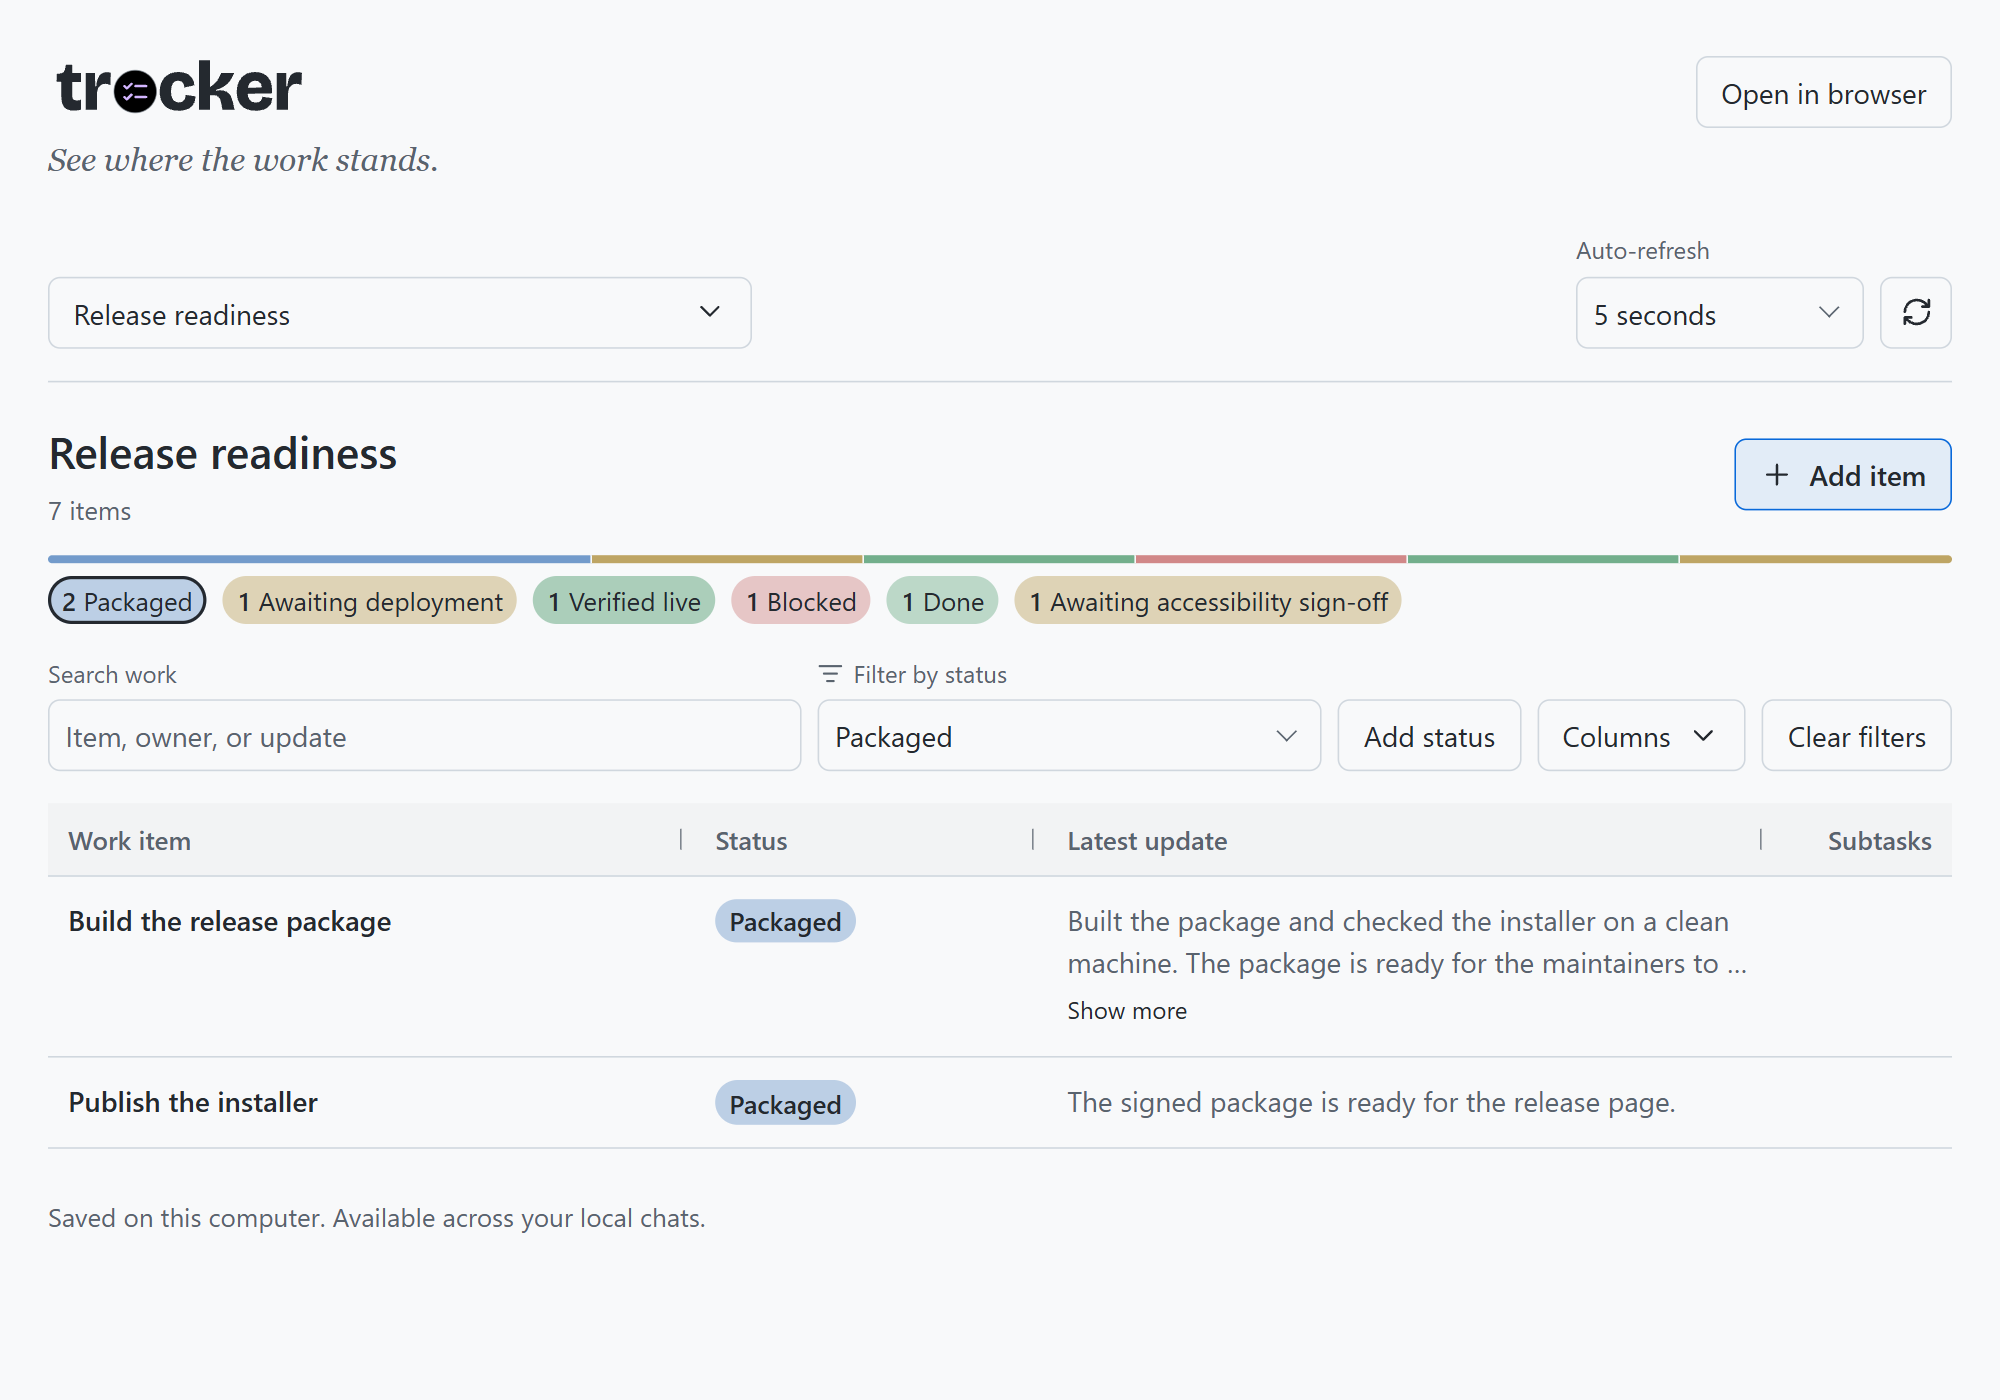
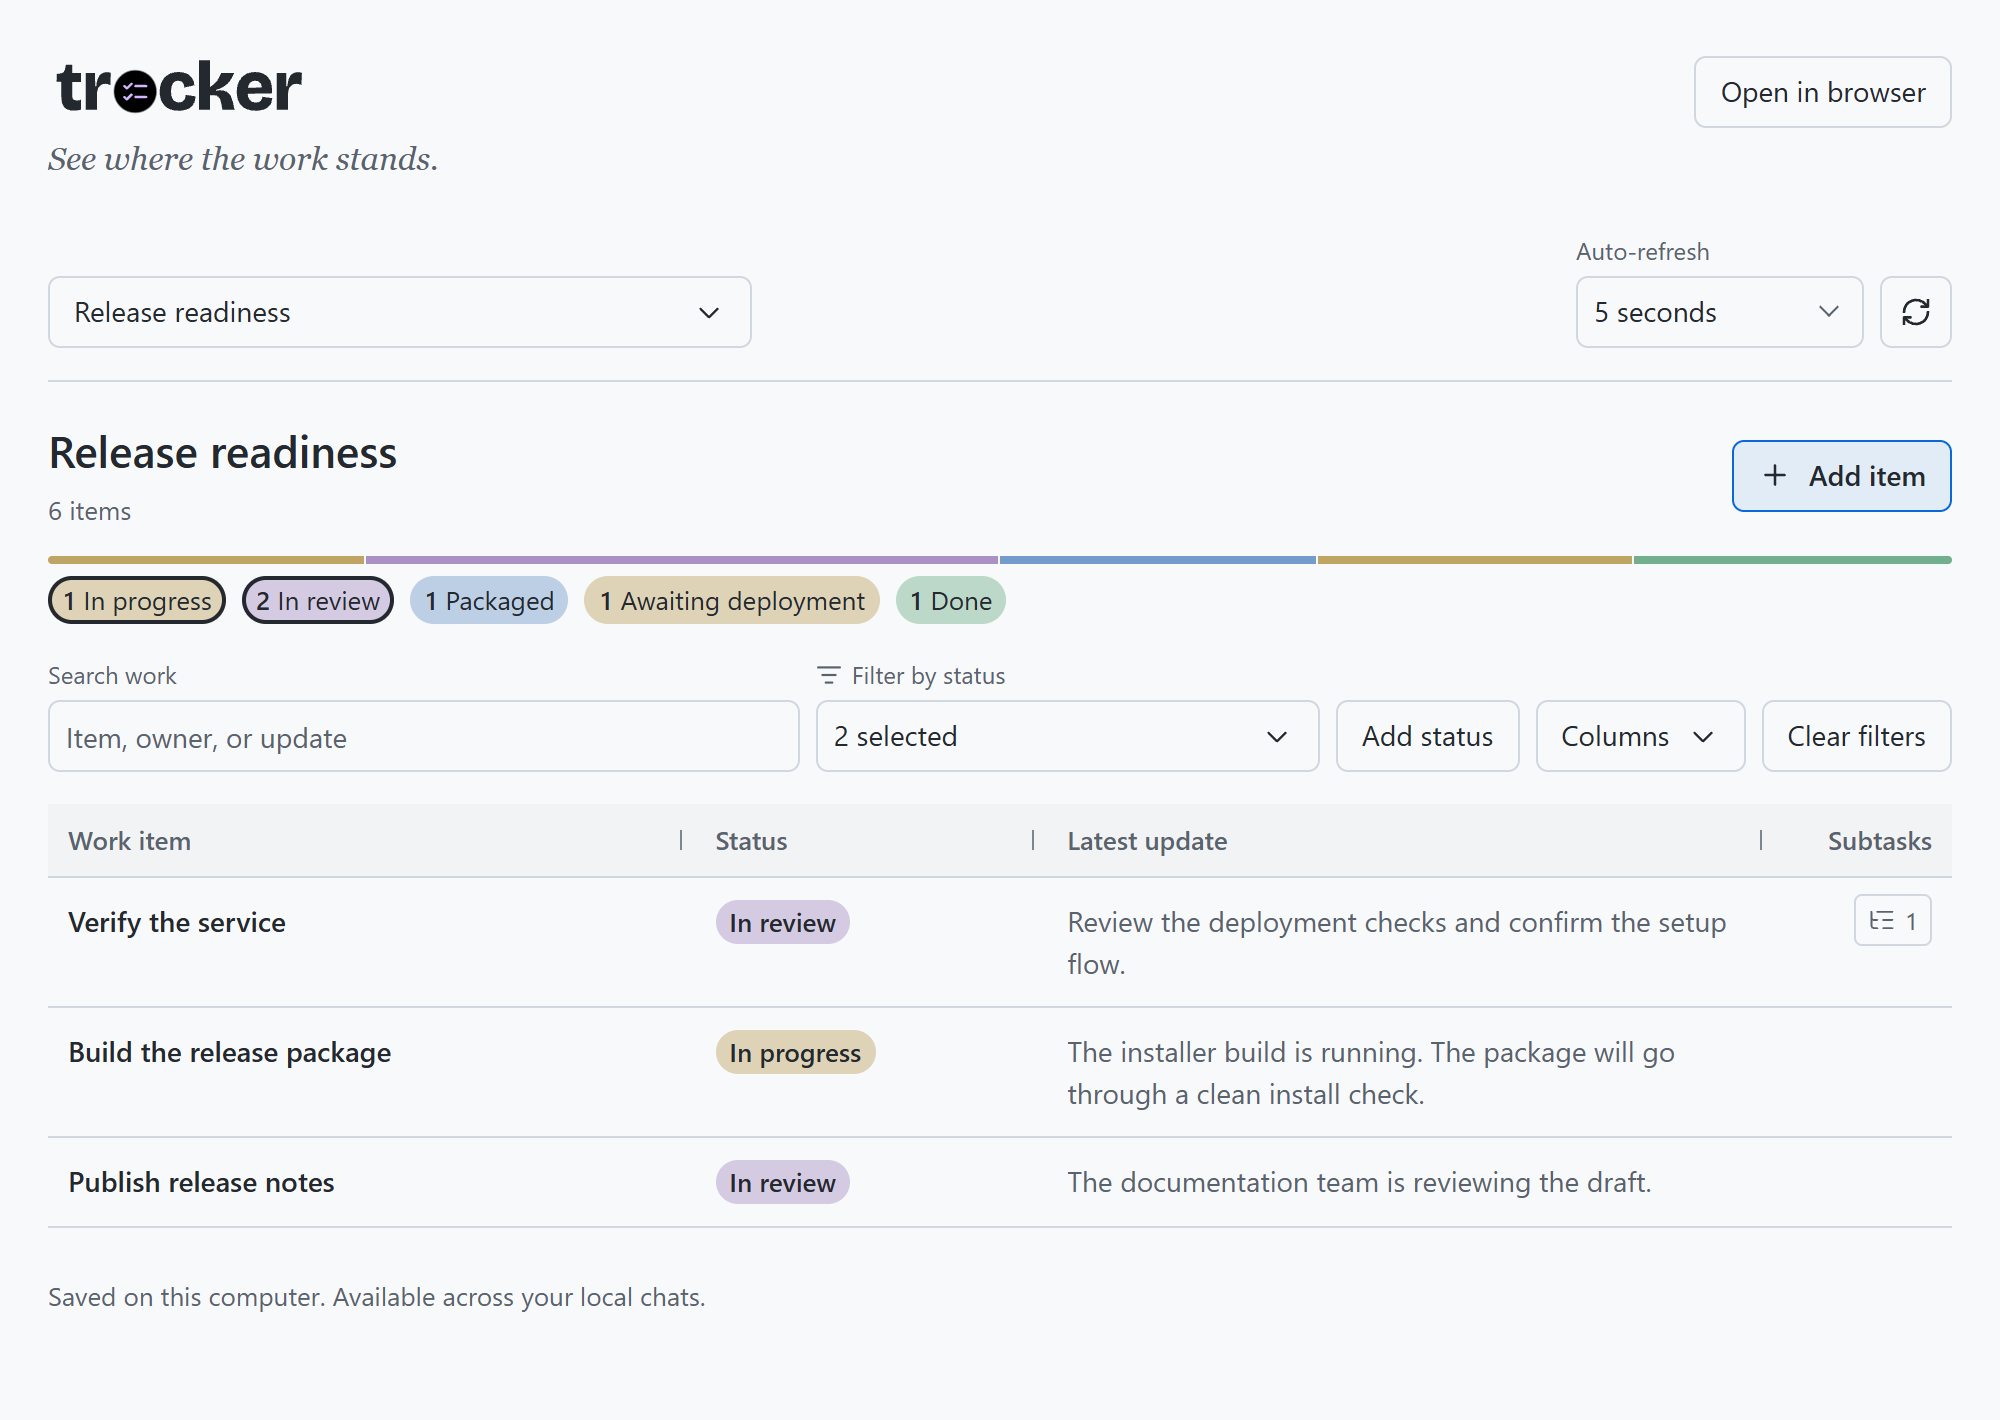
Allow multiple Tracker status filters

diff --git a/apps/tracker/app.js b/apps/tracker/app.js
@@ -12,6 +12,9 @@ const columnWidths = new Map();
 const resizeMenu = byId("resize-column-menu");
 const resetWidths = byId("reset-column-widths");
 const statusFilter = byId("status-filter");
+const statusFilterOptions = byId("status-filter-options");
+const statusFilterChoices = byId("status-filter-choices");
+const selectedStatuses = new Set();
 const statusCounts = byId("status-counts");
 const clearFiltersButton = byId("clear-filters");
 const showHidden = byId("show-hidden");
@@ -165,6 +168,7 @@ async function load({ manual = false } = {}) {
             renderBoardMenu(target);
         }
         boardMenuButton.disabled = false;
+        const previousStatuses = data?.statuses;
         data = next;
         if (!data) {
             showWelcome("No trackers yet. Choose New tracker from the Trackers menu to get started.");
@@ -176,9 +180,9 @@ async function load({ manual = false } = {}) {
             expandedParents.clear();
             expandedNotes.clear();
         }
-        const statusOptions = [["", "All statuses"], ...data.statuses.map(({ id, label }) => [id, label])];
-        if (statusOptions.length !== statusFilter.options.length || oldBoard !== target.id) {
-            setOptions(statusFilter, statusOptions, statusFilter.value);
+        if (oldBoard !== target.id || !previousStatuses || previousStatuses.length !== data.statuses.length ||
+            data.statuses.some(({ id, label }, index) => id !== previousStatuses[index].id || label !== previousStatuses[index].label)) {
+            renderStatusFilterChoices(data.statuses);
         }
         byId("board-title").textContent = data.board.name;
         showMessage(byId("board-session-name"), data.board.sessionName ? `Copilot session: ${data.board.sessionName}` : "");
@@ -201,7 +205,31 @@ async function load({ manual = false } = {}) {
 
 function clearFilters() {
     search.value = "";
-    statusFilter.value = "";
+    selectedStatuses.clear();
+}
+
+function renderStatusFilterChoices(statuses) {
+    const available = new Set(statuses.map(({ id }) => id));
+    for (const id of selectedStatuses) if (!available.has(id)) selectedStatuses.delete(id);
+    statusFilterChoices.replaceChildren(...statuses.map(({ id, label }) => {
+        const choice = document.createElement("label");
+        choice.className = "check-filter";
+        const checkbox = document.createElement("input");
+        checkbox.type = "checkbox";
+        checkbox.value = id;
+        choice.append(checkbox, label);
+        return choice;
+    }));
+}
+
+function syncStatusFilter() {
+    const size = selectedStatuses.size;
+    byId("status-filter-value").textContent = size === 0 ? "All statuses"
+        : size === 1 ? data.statuses.find(({ id }) => selectedStatuses.has(id)).label
+            : `${size} selected`;
+    for (const checkbox of statusFilterChoices.querySelectorAll("input")) {
+        checkbox.checked = selectedStatuses.has(checkbox.value);
+    }
 }
 
 function renderNote(container, item, layout) {
@@ -358,7 +386,7 @@ function renderStatusSummary(items) {
     }
     const buttons = [...statusCounts.querySelectorAll("button")];
     for (const button of buttons) {
-        button.ariaPressed = String(button.dataset.statusId === statusFilter.value);
+        button.ariaPressed = String(selectedStatuses.has(button.dataset.statusId));
     }
     if (focused) {
         const replacement = buttons.find(button => button.dataset.statusId === focused);
@@ -401,13 +429,13 @@ function renderRows({ all = false } = {}) {
     const visibleItems = showHidden.checked ? data.items
         : data.items.filter(item => !hiddenIds.has(item.id) && !hiddenIds.has(item.parentId));
     const summary = visibleItems.filter(item => !item.parentId);
+    syncStatusFilter();
     renderStatusSummary(summary);
     const query = search.value.trim().toLowerCase();
-    const filter = statusFilter.value;
-    const filtered = Boolean(query || filter);
+    const filtered = Boolean(query || selectedStatuses.size);
     clearFiltersButton.hidden = !filtered;
     const statuses = new Map(data.statuses.map(status => [status.id, status]));
-    const matches = item => (!filter || item.statusId === filter) &&
+    const matches = item => (!selectedStatuses.size || selectedStatuses.has(item.statusId)) &&
         (!query || [item.title, item.owner, item.note].some(text => text.toLowerCase().includes(query)));
     const subtasksByParent = new Map();
     for (const item of visibleItems) {
@@ -558,7 +586,7 @@ function openItem(item) {
         : item?.parentId ? "Use Show hidden items to find and restore it."
             : "This also hides its subtasks. Use Show hidden items to find and restore it.";
     setOptions(byId("item-status"), data.statuses.map(({ id, label }) => [id, label]),
-        item?.statusId ?? (statusFilter.value || "todo"));
+        item?.statusId ?? (selectedStatuses.size === 1 ? selectedStatuses.values().next().value : "todo"));
     const parents = data.items.filter(candidate => !candidate.parentId);
     const parentField = byId("item-parent");
     parentField.disabled = Boolean(item) || !parents.length;
@@ -670,7 +698,7 @@ byId("delete-board").addEventListener("click", () => {
     closeBoardMenu();
     if (board) confirmDelete(board);
 });
-for (const [menu, button] of [[boardMenu, boardMenuButton], [columnsMenu, byId("columns-button")]]) {
+for (const [menu, button] of [[boardMenu, boardMenuButton], [columnsMenu, byId("columns-button")], [statusFilterOptions, statusFilter]]) {
     menu.addEventListener("beforetoggle", event => {
         if (event.newState === "open") positionMenu(menu, button, true);
         else if (tipTarget && menu.contains(tipTarget)) hideTip();
@@ -829,13 +857,17 @@ byId("board-options").addEventListener("click", event => {
     void load();
 });
 search.addEventListener("input", renderRows);
-statusFilter.addEventListener("change", renderRows);
+function toggleStatusFilter(id, selected) {
+    if (selected) selectedStatuses.add(id);
+    else selectedStatuses.delete(id);
+    renderRows();
+}
+statusFilterChoices.addEventListener("change", ({ target }) => toggleStatusFilter(target.value, target.checked));
 statusCounts.addEventListener("click", event => {
     const button = event.target.closest("button[data-status-id]");
     if (!button) return;
     const id = button.dataset.statusId;
-    statusFilter.value = statusFilter.value === id ? "" : id;
-    renderRows();
+    toggleStatusFilter(id, !selectedStatuses.has(id));
 });
 showHidden.addEventListener("change", renderRows);
 toggleSubtasks.addEventListener("click", () => renderRows({ all: true }));

diff --git a/apps/tracker/index.html b/apps/tracker/index.html
@@ -79,9 +79,16 @@
           <label for="search">Search work</label>
           <input id="search" type="search" placeholder="Item, owner, or update" autocomplete="off">
         </div>
-        <div class="field select-field">
-          <label for="status-filter"><span class="status-filter-icon filter-heading" aria-hidden="true"></span>Filter by status</label>
-          <select id="status-filter"></select>
+        <div class="field">
+          <label id="status-filter-label" for="status-filter"><span class="status-filter-icon filter-heading" aria-hidden="true"></span>Filter by status</label>
+          <button type="button" id="status-filter" class="control-button" popovertarget="status-filter-options" aria-labelledby="status-filter-label status-filter-value">
+            <span id="status-filter-value">All statuses</span>
+            <svg class="glyph" viewBox="0 0 24 24" aria-hidden="true"><use href="/ui-icons.svg#chevron"/></svg>
+          </button>
+          <fieldset id="status-filter-options" class="board-menu" popover>
+            <legend class="visually-hidden">Filter by status</legend>
+            <div id="status-filter-choices"></div>
+          </fieldset>
         </div>
         <button type="button" id="add-status" class="control-button">Add status</button>
         <button type="button" id="columns-button" class="control-button" popovertarget="columns-menu">

diff --git a/apps/tracker/style.css b/apps/tracker/style.css
@@ -69,6 +69,11 @@ footer { margin-top: 24px; }
 .filters label[for="status-filter"] { display: flex; align-items: center; gap: 5px; }
 .status-filter-icon { display: inline-flex; }
 .status-filter-icon::before { width: 13px; height: 13px; flex-basis: 13px; forced-color-adjust: none; }
+#status-filter { width: 100%; justify-content: space-between; padding-inline-start: 8px; }
+#status-filter-value { min-inline-size: 0; overflow: hidden; text-overflow: ellipsis; }
+#status-filter-options { min-inline-size: 0; }
+#status-filter-choices .check-filter { padding-inline: 8px; border-radius: 4px; color: var(--ink); overflow-wrap: anywhere; }
+#status-filter-choices .check-filter:hover { background: var(--hover); }
 #columns-menu, #resize-column-menu { min-inline-size: 0; width: min(12rem, calc(100vw - 24px)); }
 #columns-menu .check-filter { padding-inline: 8px; color: var(--ink); }
 #reset-column-widths { border-top: 1px solid var(--edge); border-radius: 0 0 4px 4px; }

diff --git a/apps/tracker/README.md b/apps/tracker/README.md
@@ -14,7 +14,7 @@ Choose **Add item** or select an item's title to edit it. Items can have an owne
 
 The bar and counts above the table show how the tracker's items are split by status. The summary counts top-level items, not subtasks. Search and status filters only change the table. Hidden items count only while **Show hidden items** is on.
 
-New items start at **To do** unless a status filter is active. The table and summary use the same tinted tags with neutral text in light and dark themes. **In progress** and **Awaiting deployment** are yellow, **Packaged** is blue, **Verified live** and **Done** are green, and **Blocked** is red. **To do** and custom statuses without an assigned color use slate. Hover over a status in the table or focus it with the keyboard to see the full label and what it means. Use **Add status** for a custom label and an optional tip. [See all statuses](actions.md#built-in-statuses).
+New items start at **To do** unless exactly one status is selected in the filter. The table and summary use the same tinted tags with neutral text in light and dark themes. **In progress** and **Awaiting deployment** are yellow, **Packaged** is blue, **Verified live** and **Done** are green, and **Blocked** is red. **To do** and custom statuses without an assigned color use slate. Hover over a status in the table or focus it with the keyboard to see the full label and what it means. Use **Add status** for a custom label and an optional tip. [See all statuses](actions.md#built-in-statuses).
 
 To add a subtask, pick a parent in **Add under**. Subtasks start collapsed. Use the count in the **Subtasks** column to open them. **Expand all** appears when more than one item has subtasks or when the **Subtasks** column is hidden. If a subtask matches a search or filter, its parent appears without expanding. Each subtask has its own status.
 
@@ -28,9 +28,9 @@ Link a Copilot session when you create a tracker or from the **Trackers** menu. 
 
 Search titles, owners, and updates, or use **Filter by status**. Use **Columns** to show or hide Status, Latest update, and Subtasks.
 
-Select a status tag above the table to filter by that status. Select it again to remove just the status filter, or choose **Clear filters** to reset both search and status. The summary counts don't change as you filter.
+Select one or more status tags above the table or check them in **Filter by status**. The table shows items in any selected status that also match your search. Select a tag again to remove just that status. Choose **Clear filters** to reset both search and statuses. The summary counts don't change as you filter.
 
-![The selected Packaged tag matches the dropdown marked with a filter icon, with Clear filters beside the table controls](screenshot-status-filter.png)
+![In progress and In review selected together, with the picker showing 2 selected and the table showing both statuses](screenshot-status-filter.png)
 
 Drag the short mark between column headers to resize the two columns. You can also focus it and press the left or right arrow key, or click it and choose **Narrower** or **Wider**. Widths apply to the current view. To restore the defaults, choose **Columns** → **Reset column widths**.
 
